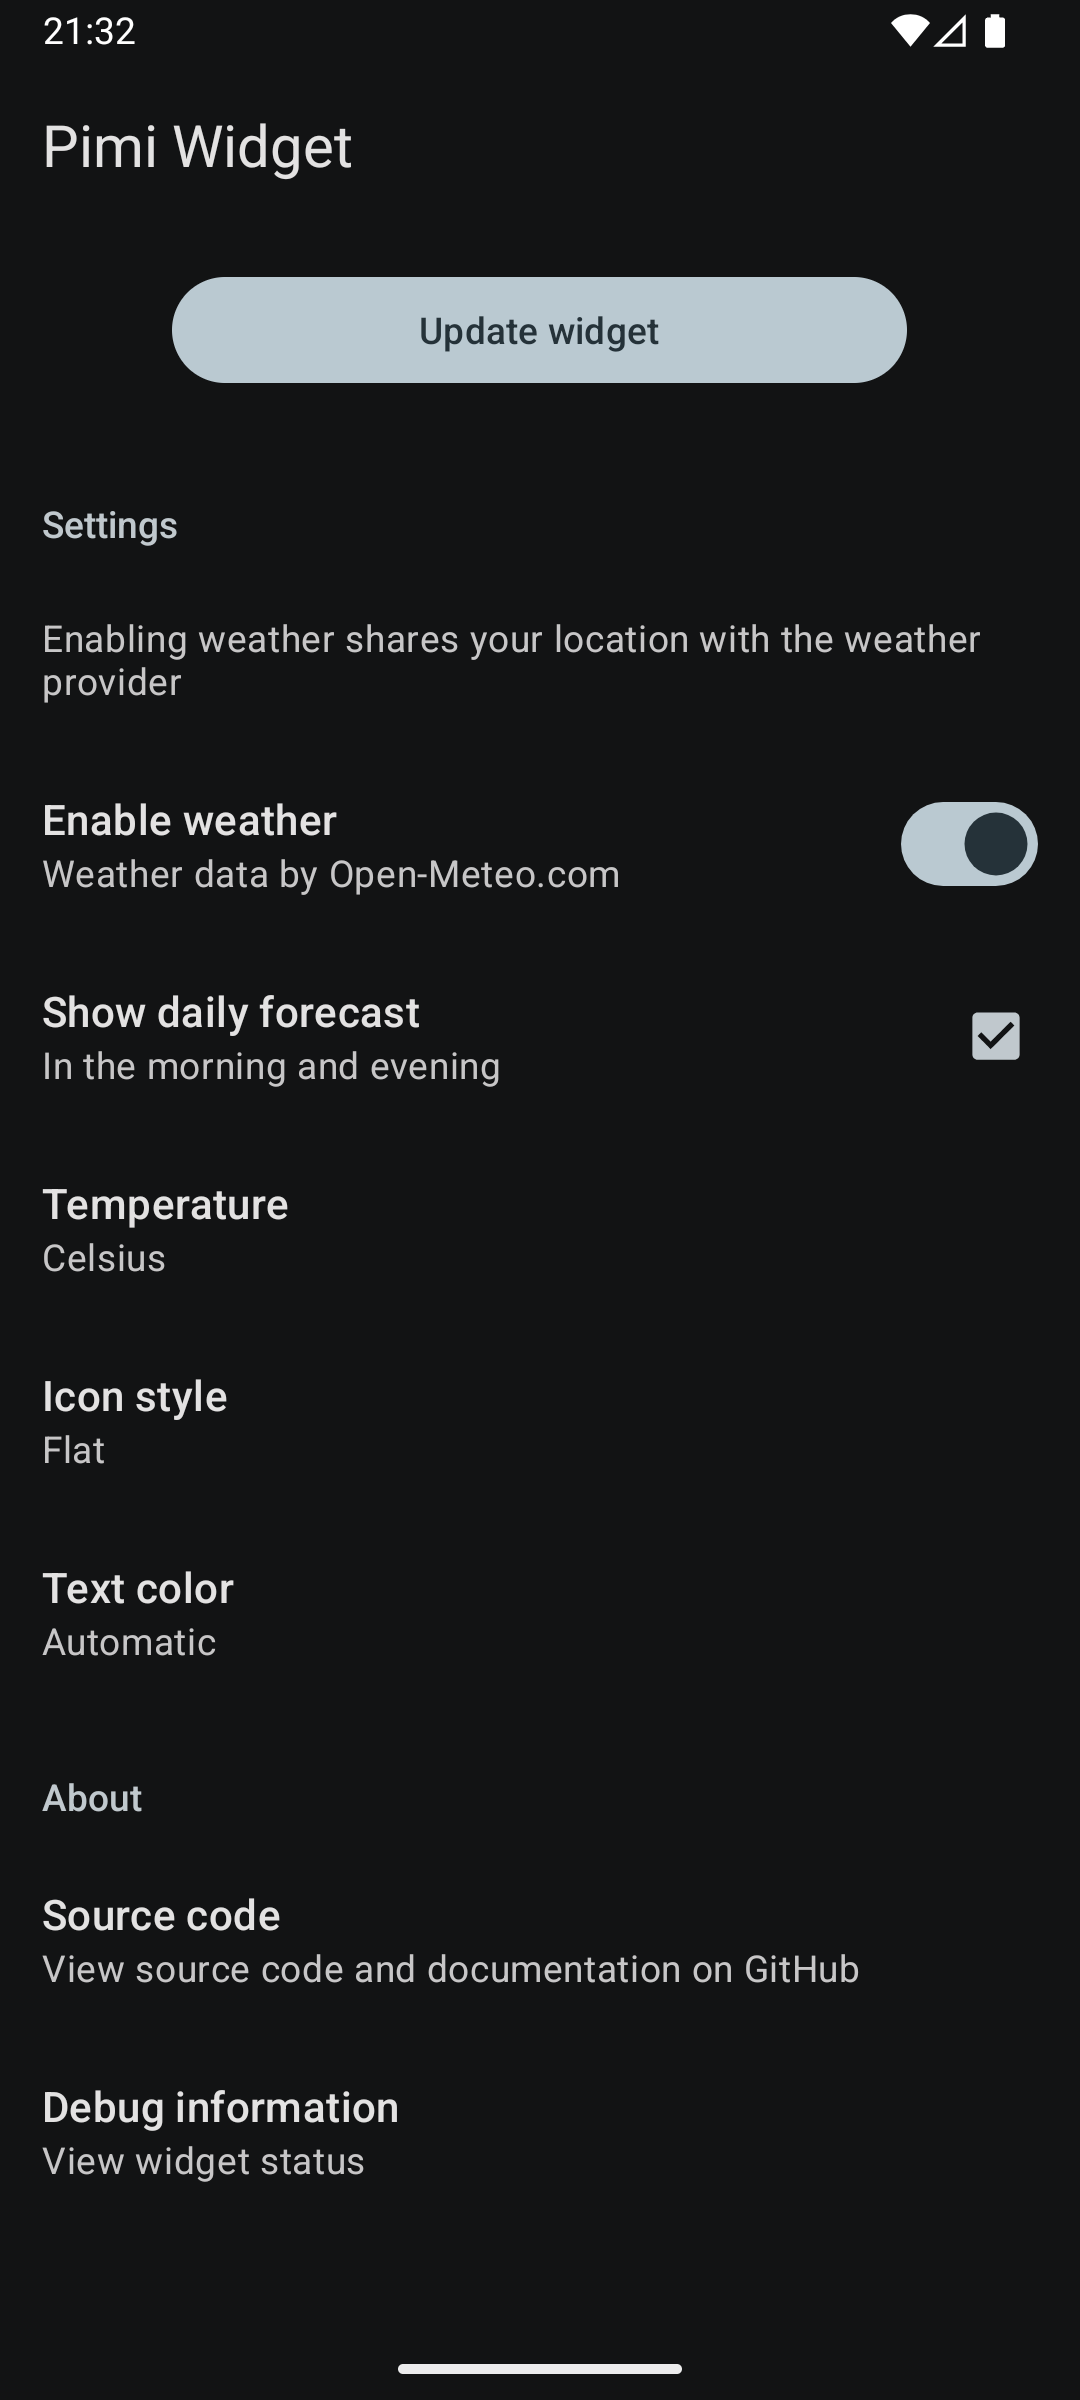
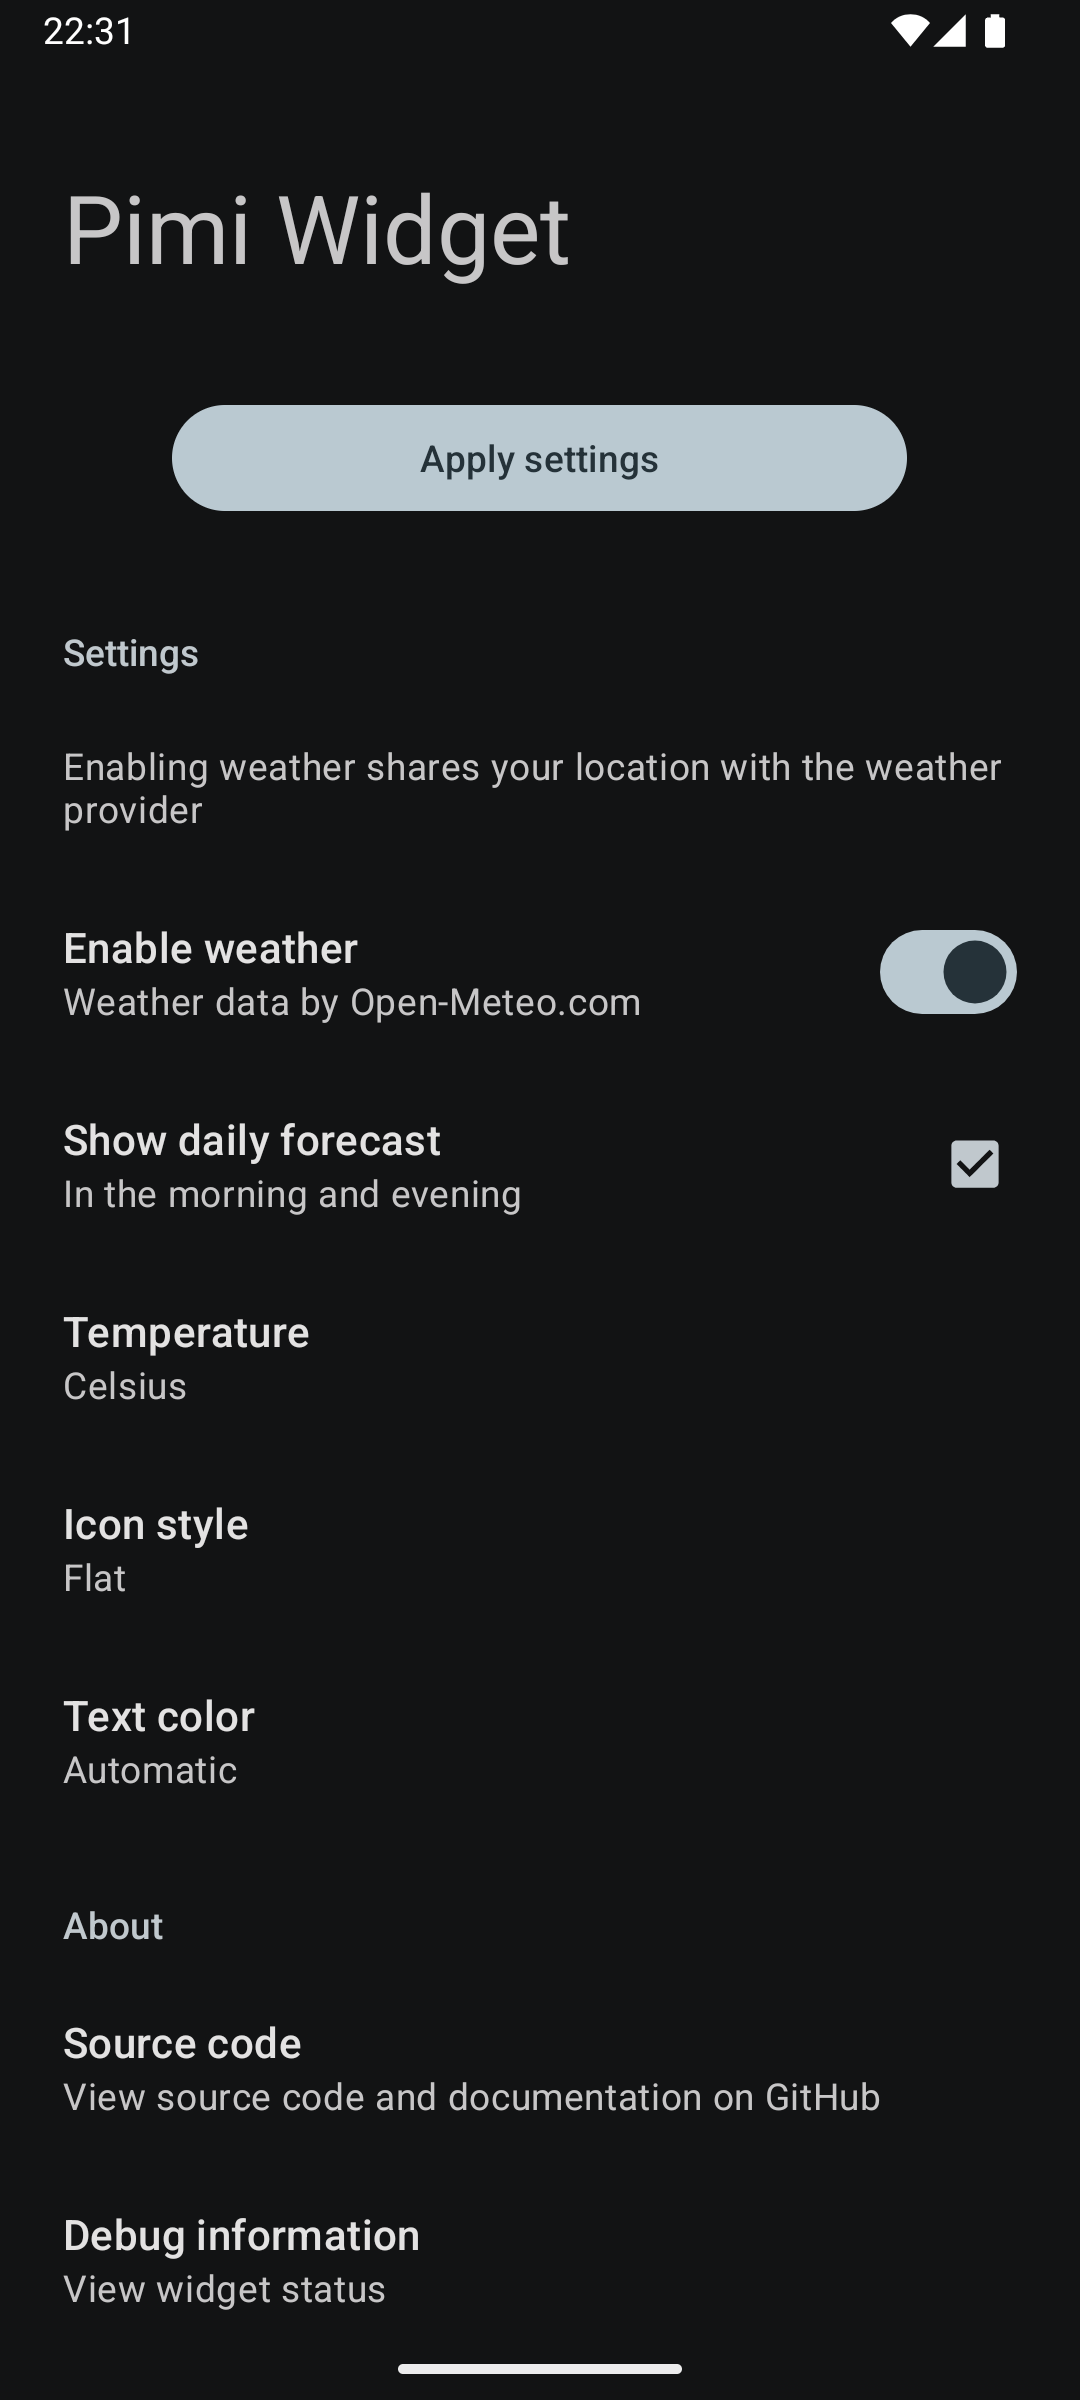
Rework settings screen

diff --git a/app/src/main/java/com/kolakek/pimiwidget/widget/WidgetSettingsFragment.kt b/app/src/main/java/com/kolakek/pimiwidget/widget/WidgetSettingsFragment.kt
@@ -23,7 +23,6 @@ import android.content.Intent
 import android.content.pm.PackageManager
 import android.os.Bundle
 import android.text.format.DateFormat
-import android.view.View
 import androidx.activity.result.contract.ActivityResultContracts
 import androidx.appcompat.app.AlertDialog
 import androidx.core.content.ContextCompat
@@ -91,12 +90,6 @@ internal class WidgetSettingsFragment : PreferenceFragmentCompat() {
                 }
             }
         }
-    }
-
-    override fun onViewCreated(view: View, savedInstanceState: Bundle?) {
-        super.onViewCreated(view, savedInstanceState)
-
-        listView.isVerticalScrollBarEnabled = false
     }
 
     private fun requestNextPermission(context: Context) {

diff --git a/README.md b/README.md
@@ -24,9 +24,9 @@ All download options provide the same APK file, signed with the same signing key
 ## Screenshots
 
 <div>
-    <img src="fastlane/metadata/android/en-US/images/phoneScreenshots/screen1.png" alt="Screen 1" style="width: 250px"/>
-    <img src="fastlane/metadata/android/en-US/images/phoneScreenshots/screen4.png" alt="Screen 2" style="width: 250px"/>
-    <img src="fastlane/metadata/android/en-US/images/phoneScreenshots/screen5.png" alt="Screen 3" style="width: 250px"/>
+    <img src="fastlane/metadata/android/en-US/images/phoneScreenshots/screen1.png" alt="Screenshot 1" style="width: 250px"/>
+    <img src="fastlane/metadata/android/en-US/images/phoneScreenshots/screen4.png" alt="Screenshot 2" style="width: 250px"/>
+    <img src="fastlane/metadata/android/en-US/images/phoneScreenshots/screen5.png" alt="Screenshot 3" style="width: 250px"/>
 </div>
 
 ## Documentation
